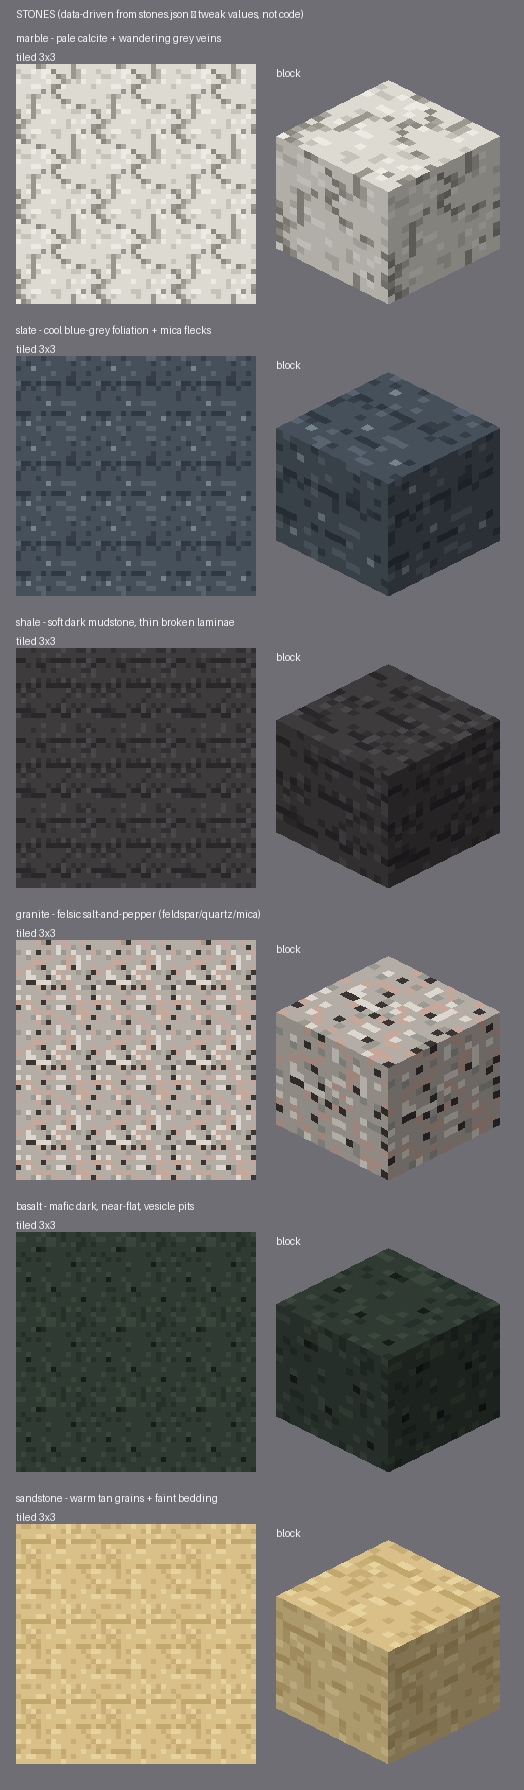
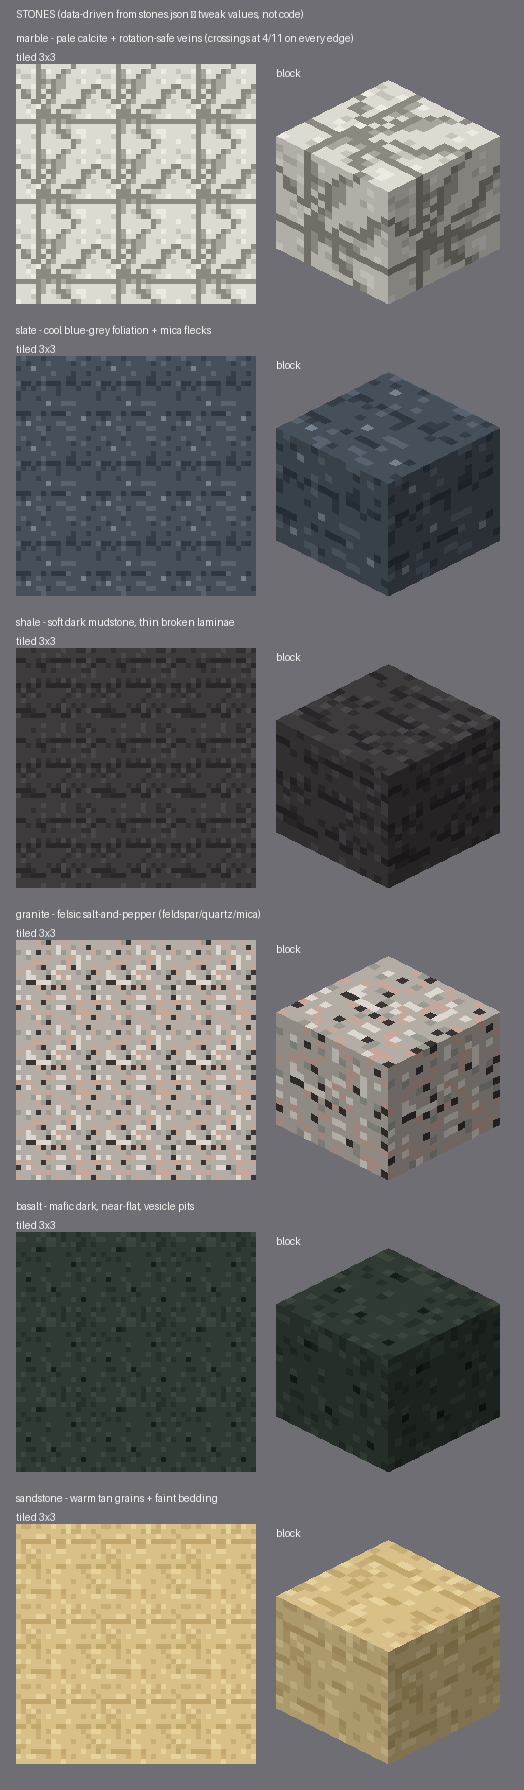
gallery: rotation-safe marble veins (anchor_veins) + --rotwall proof; data-driven

Changed region(s): [[0.0305, 0.0307, 0.4885, 0.1844], [0.5191, 0.0307, 0.9771, 0.1844]]

diff --git a/gallery/2026-07-21-stone-practice/src/stonegen.py b/gallery/2026-07-21-stone-practice/src/stonegen.py
@@ -89,6 +89,45 @@ def apply_veins(px, spec):
                 px[(cx + 1) % N, y] = color
 
 
+def _anchor(name, crossings):
+    """'T0' -> top edge at crossings[0], etc. Crossings must be a symmetric set (a+b=N-1) and are
+    identical on all four edges, so 90-degree rotations map edge-crossings onto edge-crossings."""
+    edge, idx = name[0], int(name[1])
+    c = crossings[idx]
+    return {"T": (c, 0), "B": (c, N - 1), "L": (0, c), "R": (N - 1, c)}[edge]
+
+
+def apply_anchor_veins(px, spec):
+    """Veins routed between edge anchors, wandering in the interior but pinned to the SAME crossing
+    positions on every edge — so the lines line up across seams under any 90-degree rotation."""
+    av = spec.get("anchor_veins")
+    if not av:
+        return
+    crossings = av["crossings"]
+    color, core = hexc(av["color"]), hexc(av["core"])
+    amp = av.get("amp", 2.0)
+    seed = spec.get("seed", 1) + 30
+    for pi, (a, b) in enumerate(av["pairs"]):
+        ax, ay = _anchor(a, crossings)
+        bx, by = _anchor(b, crossings)
+        dx, dy = bx - ax, by - ay
+        length = math.hypot(dx, dy) or 1.0
+        pxu, pyu = -dy / length, dx / length            # perpendicular unit
+        steps = int(max(abs(dx), abs(dy)) * 2) + 1
+        for t in range(steps + 1):
+            f = t / steps
+            wob = amp * math.sin(f * math.pi) * (0.6 + 0.8 * h2(pi, t, seed))  # 0 at both ends
+            xi = int(round(ax + dx * f + pxu * wob)) % N
+            yi = int(round(ay + dy * f + pyu * wob)) % N
+            px[xi, yi] = core
+            if 0 < f < 1 and h2(xi, yi, seed + 1) < 0.5:
+                px[(xi + 1) % N, yi] = color
+    for a, b in av["pairs"]:                             # pin exact edge crossings
+        for nm in (a, b):
+            cx, cy = _anchor(nm, crossings)
+            px[cx, cy] = core
+
+
 def apply_points(px, spec, key):
     for p in spec.get(key, []):
         px[p["x"] % N, p["y"] % N] = hexc(p["color"])
@@ -111,6 +150,7 @@ def render(spec):
     apply_bands(px, spec, "bedding")
     apply_minerals(px, spec)
     apply_veins(px, spec)
+    apply_anchor_veins(px, spec)
     apply_points(px, spec, "flecks")
     apply_points(px, spec, "pits")
     apply_cleavage(px, spec)
@@ -137,18 +177,54 @@ def set_path(specs, path, raw):
         d[last] = val
 
 
+from PIL import Image, ImageDraw  # noqa: E402
+_ROTS = [None, Image.ROTATE_90, Image.ROTATE_180, Image.ROTATE_270]
+
+
+def rot_wall(tex, randomize, side=5, scale=4):
+    canvas = Image.new("RGBA", (N * side, N * side), MS.T)
+    for by in range(side):
+        for bx in range(side):
+            t = tex
+            if randomize:
+                r = int(h2(bx, by, 777) * 4) % 4       # deterministic per-cell rotation
+                if r:
+                    t = tex.transpose(_ROTS[r])
+            canvas.alpha_composite(t, (bx * N, by * N))
+    return canvas.resize((canvas.width * scale, canvas.height * scale), Image.NEAREST)
+
+
+def rotwall_sheet(name, tex):
+    fixed = MS.lbl(rot_wall(tex, False), "fixed")
+    rand = MS.lbl(rot_wall(tex, True), "random-rotated (veins still connect)")
+    gap, pad = 24, 16
+    w = fixed.width + rand.width + gap + 2 * pad
+    ht = max(fixed.height, rand.height) + 2 * pad + 24
+    canvas = Image.new("RGBA", (w, ht), MS.BG)
+    ImageDraw.Draw(canvas).text((pad, 8), f"{name} — random rotation (edge crossings aligned)", fill=MS.INK)
+    canvas.alpha_composite(fixed, (pad, 30))
+    canvas.alpha_composite(rand, (pad + fixed.width + gap, 30))
+    out = MS.PREV / f"sheet-{name}-rot.png"
+    canvas.save(out)
+    print("wrote", out.name)
+
+
 def main():
     ap = argparse.ArgumentParser()
     ap.add_argument("--specs", default=str(SESS / "stones.json"))
     ap.add_argument("--only", default="")
     ap.add_argument("--set", dest="sets", action="append", default=[])
     ap.add_argument("--suffix", default="_gen")
+    ap.add_argument("--rotwall", default="", help="also emit a fixed-vs-random-rotated wall for this stone")
     args = ap.parse_args()
 
     specs = json.load(open(args.specs))
     for s in args.sets:
         path, _, raw = s.partition("=")
         set_path(specs, path.strip(), raw.strip())
+
+    if args.rotwall:
+        rotwall_sheet(args.rotwall, render(specs[args.rotwall]))
 
     names = [n.strip() for n in args.only.split(",") if n.strip()] or list(specs)
     rows = []

diff --git a/gallery/2026-07-21-stone-practice/NOTES.md b/gallery/2026-07-21-stone-practice/NOTES.md
@@ -44,3 +44,12 @@ stones.json. Tweak stones by editing the JSON, or override any value on the CLI 
 code, e.g. `--set shale.laminae.density=0.4 --set marble.seed=7`. Structure primitives are
 value-parameterised (speckle/foliation/flat + minerals/veins/laminae/bedding/flecks/pits/cleavage).
 Reproduces all six stones from r2. Verified: `--set granite.minerals.1.p=0.30` changes the output.
+
+## r4 — rotation-safe marble veins (data-driven)
+Added `anchor_veins` to the engine: veins routed between EDGE ANCHORS whose crossing positions are a
+symmetric set ({4,11}, a+b=15) IDENTICAL on all four edges, so 90-degree rotations map edge-crossings
+onto edge-crossings and the lines line up across seams. Interior wanders (sin*hash, 0 at endpoints so
+crossings stay exact) → real placement variety under random rotation, veins never float at an edge.
+Verified with `--rotwall marble` (fixed vs random-rotated 5x5 wall). Base is low-contrast noise, which
+is rotation-agnostic; only the structured veins needed the crossing alignment. All still value-driven
+(crossings/pairs/amp in stones.json); `--rotwall NAME` emits the proof wall for any stone.
